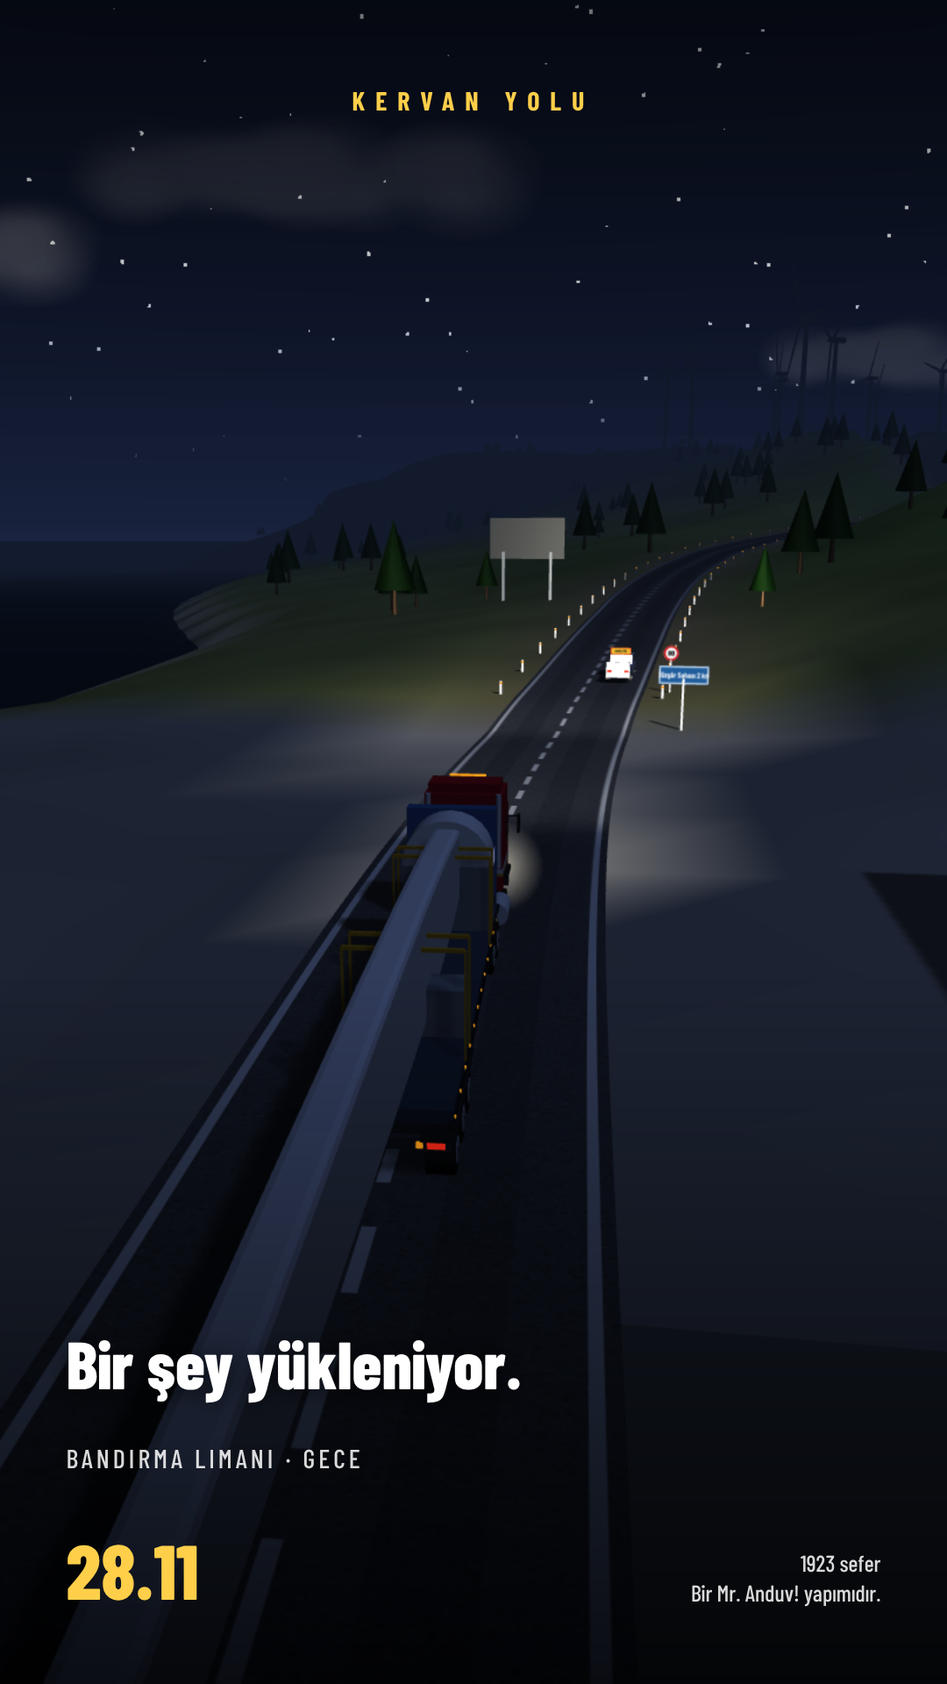
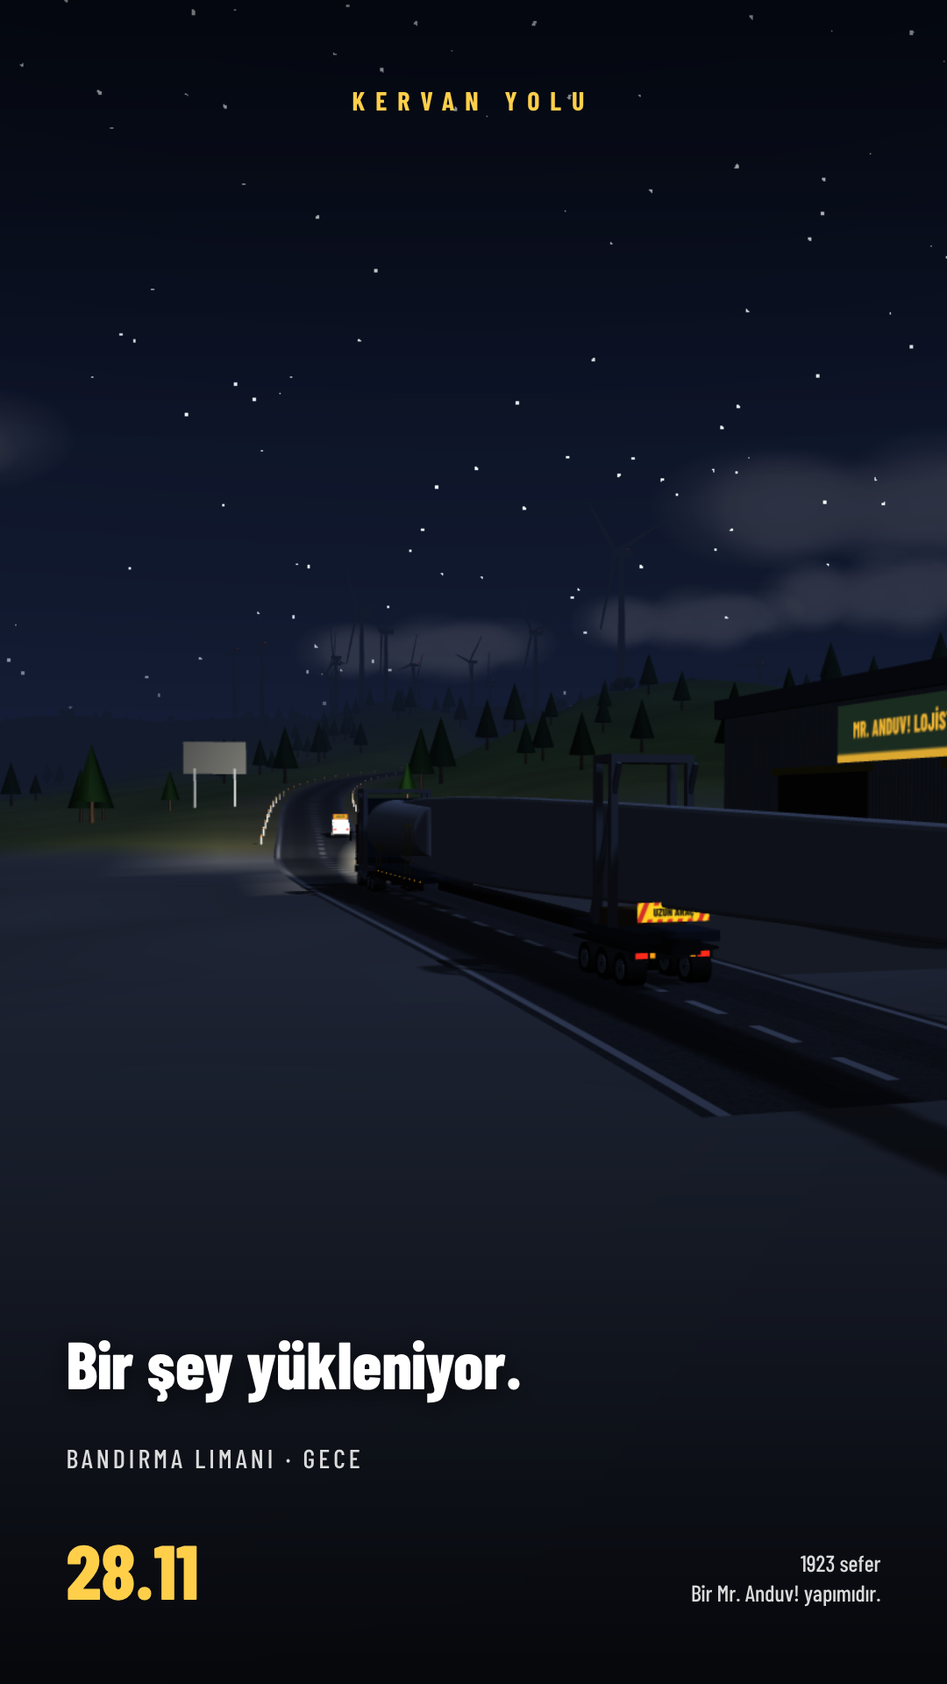
Gerçekçi kanat taşıması: 72 m kanat, teleskopik uzayan dorse (uç çerçevesi, ~16 m çıkıntı), kendi dönen arka boji, yuvarlak kök ve büyük kök çerçevesi, uçta kırmızı-beyaz uyarı şeritleri, UZUN ARAÇ levhası; kaldırıcıda dorse içeri kayar, kaldırma açısı 57°. iOS 1.0.0 (14)
Claude-Session: https://claude.ai/code/session_016DWJF61UHkq9kfKhUbEukP

Changed region(s): [[0.1528, 0.1875, 1.0, 0.8125], [0.0, 0.3438, 0.2139, 0.5], [0.0, 0.125, 0.0917, 0.1875]]

diff --git a/www/index.html b/www/index.html
@@ -309,7 +309,7 @@ const MAT={dark:P('#1c1e20'),dark2:P('#33373a',{shininess:50}),chrome:P('#d9dde0
 tyre:P('#151515',{shininess:5}),rim:P('#b8bec2',{shininess:90}),grille:P('#22272b',{shininess:80}),white:P('#f2f2ee',{shininess:60}),
 head:new THREE.MeshBasicMaterial({color:0xfff3d0}),tail:new THREE.MeshBasicMaterial({color:0xff2a1a}),amber:new THREE.MeshBasicMaterial({color:0xffa31a}),
 trailer:P('#2b3d52',{shininess:40}),yellow:P('#f0b21b',{shininess:60}),yellowD:P('#c88a10',{shininess:40}),wood:P('#8a6236'),concrete:P('#a8a59d'),
-turb:P('#f4f5f3',{shininess:70}),steel:P('#7d8790',{shininess:60}),strap:P('#e0a21a'),flange:P('#2f5f9c',{shininess:60})};
+turb:P('#f4f5f3',{shininess:70}),frame:P('#9aa3a9',{shininess:50}),blade:P('#ffffff',{shininess:70}),steel:P('#7d8790',{shininess:60}),strap:P('#e0a21a'),flange:P('#2f5f9c',{shininess:60})};
 
 // ================= DÜNYA =================
 const TX0=-420,TX1=820,TZ0=-1640,TZ1=220,SEG=10,NX=(TX1-TX0)/SEG,NZ=(TZ1-TZ0)/SEG;
@@ -465,7 +465,7 @@ function trafficStep(dt){if(!G||!TRAF.length)return;const v=truck.v;const ti=roa
   c.g.position.set(x,getH(x,z)+.05,z);c.g.rotation.set(0,h,0);for(const w of c.W)w.g.rotation.x-=c.cur/0.4*dt;
   // çarpışma: çekici ya da dorse/yük
   const hitCab=Math.hypot(x-(v.x-Math.sin(v.h)*3.5),z-(v.z-Math.cos(v.h)*3.5))<(c.len/2+1.6)&&inLane;
-  let hitTr=false;if(!hitCab){const kan=G.job.type==='kanat'&&CARGO.kanat.visible;const M=kan?(CARGO.kanat.updateMatrixWorld(true),CARGO.kanat.matrixWorld):(trailer.g.updateMatrixWorld(),trailer.g.matrixWorld);const zs=kan?[6,12,20,30,40]:[3,7,11];const ch=c.type==='otobus'?3.6:c.type==='traktor'?2.9:2.3;for(const zz of zs){_v.set(0,kan?-1:0,zz).applyMatrix4(M);if(_v.y>getH(_v.x,_v.z)+ch+.4)continue;if(Math.hypot(x-_v.x,z-_v.z)<c.wid/2+1.3){hitTr=true;break}}}
+  let hitTr=false;if(!hitCab){const kan=G.job.type==='kanat'&&CARGO.kanat.visible;const M=kan?(CARGO.kanat.updateMatrixWorld(true),CARGO.kanat.matrixWorld):(trailer.g.updateMatrixWorld(),trailer.g.matrixWorld);const zs=kan?[6,14,24,34,44,54,62,70]:[3,7,11];const ch=c.type==='otobus'?3.6:c.type==='traktor'?2.9:2.3;for(const zz of zs){_v.set(0,kan?-1:0,zz).applyMatrix4(M);if(_v.y>getH(_v.x,_v.z)+ch+.4)continue;if(Math.hypot(x-_v.x,z-_v.z)<c.wid/2+1.3){hitTr=true;break}}}
   if(hitCab||hitTr){c.crashT=2.5;c.cur=0;const imp=Math.abs(v.speed)+c.spd*.5;v.speed*=-.15;if(mode==='career'){G.dmg=Math.min(100,G.dmg+6+imp*.6);G.fines=(G.fines||0)+(hitCab?4000:0);G.tickets=(G.tickets||0)+(hitCab?1:0)}toast(T(hitCab?'t_crashCar':'t_sweep'),'#ff8a7f',2.6);G.warnT=3;blip(120,60,.4)}}
  if(ESC){const on=HEAVY.includes(G.job.type);ESC.g.visible=on;if(on){const raw=ti+sgn*26,ei=clamp(raw,46,NS-46);const park=raw!==ei;const p=sideAt(Math.round(ei),(park?5.2:LANE)*sgn);const i1=Math.round(ei),i2=clamp(i1+sgn,0,NS-1);
    const tx=RS[i2].x-RS[i1].x,tz=RS[i2].z-RS[i1].z;ESC.g.position.set(p.x,getH(p.x,p.z)+.05,p.z);ESC.g.rotation.set(0,Math.atan2(-tx,-tz),0);for(const w of ESC.W)w.g.rotation.x-=(park?0:v.speed)/.38*dt;const bl=Math.sin(G.t*9)>0;ESC.beac[0].visible=bl;ESC.beac[1].visible=!bl}}
@@ -624,7 +624,8 @@ function buildSite(){
   const m=new THREE.Mesh(new THREE.PlaneGeometry(6,3),new THREE.MeshBasicMaterial({map:tx,side:THREE.DoubleSide}));m.position.y=4.6;g.add(m);put(g,40,-13,0);{const tp=RS[NS-48];g.rotation.y=Math.atan2(tp.x-(SX+g.position.x),tp.z-(SZ+g.position.z))}OC(40,-13,3);world.siteSign={c,tx}}
  const fg=new THREE.Group();addBox(.1,3,.1,MAT.steel,0,1.5,0,fg);const flag=new THREE.Mesh(new THREE.PlaneGeometry(1.6,1.07),new THREE.MeshBasicMaterial({map:ctex(120,80,(g)=>{g.fillStyle='#e30a17';g.fillRect(0,0,120,80);g.fillStyle='#fff';g.beginPath();g.arc(42,40,20,0,7);g.fill();g.fillStyle='#e30a17';g.beginPath();g.arc(47,40,16,0,7);g.fill();g.fillStyle='#fff';g.save();g.translate(70,40);g.rotate(-.3);g.beginPath();for(let i=0;i<5;i++){const a=i*4*Math.PI/5;g.lineTo(Math.cos(a)*9,Math.sin(a)*9)}g.fill();g.restore()}),side:THREE.DoubleSide}));flag.position.set(.8,2.5,0);fg.add(flag);put(fg,26,18);world.flag=flag;
 }
-function bladeGeom(){const sh=new THREE.Shape();sh.moveTo(-.9,0);sh.bezierCurveTo(-1.6,6,-1.4,10,-1,18);sh.lineTo(-.25,40);sh.lineTo(.2,40);sh.bezierCurveTo(.6,24,1.5,8,.9,0);sh.lineTo(-.9,0);
+const BLADE_L=72;
+function bladeGeom(L=40){const k=L/40,c=L>50?1.45:1;const sh=new THREE.Shape();sh.moveTo(-.9*c,0);sh.bezierCurveTo(-1.6*c,6*k,-1.4*c,10*k,-1*c,18*k);sh.lineTo(-.25,L);sh.lineTo(.2,L);sh.bezierCurveTo(.6*c,24*k,1.5*c,8*k,.9*c,0);sh.lineTo(-.9*c,0);
  const g=new THREE.ExtrudeGeometry(sh,{depth:.45,bevelEnabled:true,bevelThickness:.15,bevelSize:.12,bevelSegments:2,curveSegments:8});g.translate(0,1.8,-.22);return g}
 function makeTurbine(){const g=new THREE.Group();addCyl(1.35,2.4,80,20,MAT.turb,0,40,0,g);addCyl(2.6,2.6,.6,20,MAT.concrete,0,.3,0,g);
  addBox(3.4,3.6,10,MAT.turb,0,82,1.6,g);addBox(3.42,.35,10.02,P('#3e7f4f'),0,80.6,1.6,g);
@@ -691,10 +692,21 @@ function buildTrailer(){const g=new THREE.Group();g.rotation.order='YXZ';const W
  addBox(2.55,.3,13.2,MAT.trailer,0,1.48,5.7,g);for(const s of[1,-1])addBox(.12,.42,13.2,MAT.dark,s*1.22,1.2,5.7,g);
  addBox(2.5,1.4,.14,MAT.trailer,0,2.3,-.85,g);for(let x=-1;x<=1;x++)addBox(.08,1.4,.16,MAT.dark,x*.8,2.3,-.85,g);
  for(const s of[1,-1]){addBox(.14,1.0,.14,MAT.dark2,s*.9,.72,2.2,g);addBox(.4,.08,.4,MAT.dark2,s*.9,.22,2.2,g)}
- for(const z of[9.2,10.5,11.8])for(const s of[1,-1])wheel(.5,.6,s*1.0,.5,z,g,W);for(const s of[1,-1])addBox(.7,.08,4.2,MAT.dark,s*1.0,1.12,10.5,g);
- addBox(2.5,.25,.16,MAT.dark2,0,.95,12.36,g);for(const s of[1,-1]){addBox(.36,.16,.06,MAT.tail,s*.95,.95,12.45,g);addBox(.14,.14,.06,MAT.amber,s*.62,.95,12.45,g)}
+ const rear=new THREE.Group();g.add(rear);const bog=new THREE.Group();rear.add(bog);bog.position.z=10.5;
+ for(const z of[-1.3,0,1.3])for(const s of[1,-1])wheel(.5,.6,s*1.0,.5,z,bog,W);for(const s of[1,-1])addBox(.7,.08,4.2,MAT.dark,s*1.0,1.12,0,bog);
+ addBox(2.5,.25,.16,MAT.dark2,0,.95,1.86,bog);for(const s of[1,-1]){addBox(.36,.16,.06,MAT.tail,s*.95,.95,1.95,bog);addBox(.14,.14,.06,MAT.amber,s*.62,.95,1.95,bog)}
+ addBox(2.55,.3,4.6,MAT.trailer,0,1.48,0,bog);
+ const tipF=new THREE.Group();bog.add(tipF);for(const s of[1,-1])for(const z of[-.55,.55])addBox(.22,4.9,.22,MAT.frame,s*1.2,4.05,z,tipF);addBox(2.62,.24,1.32,MAT.frame,0,6.45,0,tipF);addBox(2.4,.5,1.2,MAT.wood,0,1.85,0,tipF);for(const s of[1,-1]){const d=addBox(.14,4.9,.14,MAT.frame,s*1.2,4.05,0,tipF);d.rotation.x=.4}tipF.visible=false;
+ const uz=new THREE.Mesh(new THREE.PlaneGeometry(2.2,.55),new THREE.MeshBasicMaterial({map:ctex(256,64,(g,w,h)=>{g.fillStyle='#ffd21f';g.fillRect(0,0,w,h);g.fillStyle='#d32f2a';for(let x=-40;x<w;x+=36){g.beginPath();g.moveTo(x,h);g.lineTo(x+18,h);g.lineTo(x+46,0);g.lineTo(x+28,0);g.fill()}g.fillStyle='#ffd21f';g.fillRect(36,10,w-72,h-20);g.fillStyle='#111';g.font='800 36px "Barlow Condensed",sans-serif';g.textAlign='center';g.fillText('UZUN ARAÇ',w/2,45)})}));uz.position.set(0,2.15,2.0);bog.add(uz);
+ const spine=addBox(.9,.42,1,MAT.dark,0,1.25,0,rear);spine.visible=false;
  for(let z=0;z<13;z+=1.1)for(const s of[1,-1])addBox(.06,.06,.06,MAT.amber,s*1.28,1.4,z,g);
- const cargo=new THREE.Group();g.add(cargo);const slots=[2.4,6.0,9.6].map(z=>new THREE.Vector3(0,1.63,z));scene.add(g);return{g,W,slots,L:10.5,cargo}}
+ const cargo=new THREE.Group();g.add(cargo);const slots=[2.4,6.0,9.6].map(z=>new THREE.Vector3(0,1.63,z));scene.add(g);return{g,W,slots,L:10.5,cargo,bog,tipF,spine,ext:0,steer:0}}
+// Kanat dorsesi: teleskopik uzar (uç çerçevesi kanadın ~3/4'ünde, arkada ~16 m çıkıntı), arka boji uzaktan kumandayla/kendiliğinden döner.
+// Kanat kaldırıcıyla kanat havaya kalkınca dorse içeri kayar (kısa dingil mesafesi, dar virajlar).
+const TR_EXT=46;
+function trailerExt(dt){const kan=G&&G.job&&G.job.type==='kanat'&&CARGO.kanat&&CARGO.kanat.visible;const want=kan?TR_EXT*(1-(G.bl||0)):0;trailer.ext+=clamp(want-trailer.ext,-dt*8,dt*8);const e=trailer.ext;
+ trailer.bog.position.z=10.5+e;trailer.L=10.5+e*.17;trailer.tipF.visible=kan&&(G.bl||0)<.05;trailer.spine.visible=e>.3;if(e>.3){trailer.spine.scale.z=e+1;trailer.spine.position.z=12.8+e/2}
+ const st=kan?clamp(angDiff(truck.v.h,trailer.th)*1.6,-.9,.9):0;trailer.steer+=(st-trailer.steer)*Math.min(1,dt*3);trailer.bog.rotation.y=-trailer.steer*.35}
 function buildForklift(){const g=new THREE.Group();g.rotation.order='YXZ';const W=[],F=[];
  addBox(1.26,.85,2.1,MAT.yellow,0,.82,.75,g);addBox(1.34,1.05,.62,MAT.yellowD,0,1.0,1.9,g);addBox(.52,.45,.52,MAT.dark,0,1.48,1.0,g);addBox(.52,.55,.1,MAT.dark,0,1.85,1.27,g);
  for(const x of[-.56,.56])for(const z of[.15,1.45])addBox(.07,1.55,.07,MAT.dark,x,2.0,z,g);addBox(1.22,.06,1.42,MAT.dark,0,2.78,.8,g);addBox(.3,.3,.06,MAT.head,.45,2.6,.08,g);addBox(.3,.3,.06,MAT.head,-.45,2.6,.08,g);addCyl(.08,.08,.5,6,MAT.amber,0,3.05,1.2,g);
@@ -769,7 +781,8 @@ const FORKP={acc:2.8,vmax:6,vrev:3,brake:6,steer:.75,steerFall:.03,slopeK:.5,rol
 let truck,trailer,fork,drone,crates=[],arrow,ring,ringBeam,pickRing,pickBeam,CARGO={};
 let OEMC=null,OEMT=null,CUR_OEM='';
 function drawOem(o){CUR_OEM=o;if(!OEMC)return;const g=OEMC.getContext('2d');g.fillStyle=OEM_COL[o]||'#1d3e7a';g.fillRect(0,0,512,128);g.fillStyle='#fff';g.fillRect(0,100,512,6);g.font='800 70px "Barlow Condensed",sans-serif';g.textAlign='center';g.fillText(o,256,84);OEMT.needsUpdate=true}
-function setupVehicles(){setupTraffic();truck=buildTruck();truck.chains=[];for(const w of truck.W){const c=new THREE.Group();for(let k=0;k<10;k++){const l=new THREE.Mesh(new THREE.BoxGeometry(.66,.05,.09),MAT.chrome);const a=k/10*Math.PI*2;l.position.set(0,Math.cos(a)*.575,Math.sin(a)*.575);l.rotation.x=a;c.add(l)}c.visible=false;w.g.add(c);truck.chains.push(c)}trailer=buildTrailer();fork=buildForklift();drone=buildDrone();crates=[0,1,2].map(()=>buildCrate());
+function bladeTex(){const t=ctex(4,512,(g,w,h)=>{g.fillStyle='#f4f5f3';g.fillRect(0,0,w,h);g.fillStyle='#c9cdd0';g.fillRect(0,0,w,h*.035);g.fillStyle='#d32f2a';g.fillRect(0,h*.035,w,h*.06);g.fillRect(0,h*.125,w,h*.06)});t.wrapS=t.wrapT=THREE.ClampToEdgeWrapping;t.repeat.set(1,1/BLADE_L);t.offset.set(0,0);return t}
+function setupVehicles(){MAT.blade.map=bladeTex();MAT.blade.needsUpdate=true;setupTraffic();truck=buildTruck();truck.chains=[];for(const w of truck.W){const c=new THREE.Group();for(let k=0;k<10;k++){const l=new THREE.Mesh(new THREE.BoxGeometry(.66,.05,.09),MAT.chrome);const a=k/10*Math.PI*2;l.position.set(0,Math.cos(a)*.575,Math.sin(a)*.575);l.rotation.x=a;c.add(l)}c.visible=false;w.g.add(c);truck.chains.push(c)}trailer=buildTrailer();fork=buildForklift();drone=buildDrone();crates=[0,1,2].map(()=>buildCrate());
  arrow=new THREE.Sprite(new THREE.SpriteMaterial({map:TEX.arrow,transparent:true,depthTest:false,depthWrite:false}));arrow.scale.set(1.6,1.6,1);arrow.renderOrder=10;scene.add(arrow);
  world.straps=[];for(let i=0;i<3;i++){const s=new THREE.Group();for(const dz of[-.45,.45]){addBox(2.62,.05,.09,MAT.strap,0,1.42,dz,s);for(const x of[-1.31,1.31])addBox(.05,1.42,.09,MAT.strap,x,.71,dz,s)}s.visible=false;trailer.g.add(s);s.position.copy(trailer.slots[i]);world.straps.push(s)}
  ring=new THREE.Mesh(new THREE.RingGeometry(8,9.2,48),new THREE.MeshBasicMaterial({color:0x6dff8c,transparent:true,opacity:.85,side:THREE.DoubleSide}));ring.rotation.x=-Math.PI/2;scene.add(ring);
@@ -778,7 +791,8 @@ function setupVehicles(){setupTraffic();truck=buildTruck();truck.chains=[];for(c
  // yük modelleri
  const kule=new THREE.Group();const seg=addCyl(2.1,2.25,11,28,MAT.turb,0,0,0,kule);seg.rotation.x=Math.PI/2;for(const z of[-5.5,5.5]){const f=new THREE.Mesh(new THREE.TorusGeometry(2.12,.12,8,28),MAT.flange);f.position.z=z;kule.add(f)}
  for(const z of[-3.5,3.5]){addBox(2.6,.7,.9,MAT.wood,0,-1.85,z,kule)}kule.position.set(0,1.63+2.25,6);trailer.cargo.add(kule);
- const kanat=new THREE.Group();const bw=new THREE.Group();bw.rotation.z=Math.PI/2;kanat.add(bw);const bl=new THREE.Mesh(bladeGeom(),MAT.turb);bl.castShadow=true;bl.rotation.set(Math.PI/2,0,0);bw.add(bl);const root=addCyl(1.25,1.25,1.6,24,MAT.turb,0,0,1.0,kanat);root.rotation.x=Math.PI/2;addBox(2.6,2.6,.5,MAT.flange,0,0,.2,kanat);addBox(2.5,1.9,1.4,MAT.steel,0,-1.0,1.2,kanat);addBox(2.4,1.1,1.0,MAT.steel,0,-1.2,9,kanat);kanat.position.set(0,3.55,-.2);trailer.cargo.add(kanat);
+ const kanat=new THREE.Group();const bw=new THREE.Group();bw.rotation.z=Math.PI/2;kanat.add(bw);const bl=new THREE.Mesh(bladeGeom(BLADE_L),MAT.blade);bl.castShadow=true;bl.rotation.set(Math.PI/2,0,0);bw.add(bl);const root=addCyl(1.6,1.6,1.6,28,MAT.turb,0,0,1.0,kanat);root.rotation.x=Math.PI/2;const neck=addCyl(1.25,1.6,9,28,MAT.turb,0,0,6.3,kanat);neck.rotation.x=Math.PI/2;addBox(3.4,3.4,.5,MAT.flange,0,0,.2,kanat);
+ const rf=new THREE.Group();kanat.add(rf);rf.position.set(0,0,.9);for(const x of[-1.85,1.85])for(const z of[-.7,.7])addBox(.24,4.6,.24,MAT.frame,x,-.1,z,rf);for(const y of[-2.3,2.1])addBox(3.94,.24,1.64,MAT.frame,0,y,0,rf);for(const x of[-1.85,1.85]){const d=addBox(.16,4.6,.16,MAT.frame,x,-.1,0,rf);d.rotation.x=.33}kanat.position.set(0,3.75,-.2);trailer.cargo.add(kanat);
  const raf=new THREE.Group();for(const z of[2.5,8.5]){for(const x of[-1,1])addBox(.18,2.2,.18,MAT.steel,x,1.1,z,raf);addBox(2.2,.18,.18,MAT.steel,0,2.2,z,raf);addBox(2.2,.18,3,MAT.steel,0,.1,z,raf)}raf.position.set(0,1.63,0);trailer.cargo.add(raf);
  // nasel: makine dairesi gövdesi, üstte soğutucu, taşıma kızağı
  const nasel=new THREE.Group();addBox(3.9,3.9,10.4,MAT.turb,0,2.15,0,nasel);addBox(3.92,.32,10.42,P('#3e7f4f'),0,.55,0,nasel);addBox(2.4,.9,3,P('#cfd3d0',{shininess:50}),0,4.55,2.4,nasel);for(const z of[-4.2,4.2])addBox(4.1,.5,1,MAT.steel,0,.05,z,nasel);
@@ -853,7 +867,7 @@ function vehStep(v,dt,inp,load){const p=v.p;let acc=0;const af=load||1;
  else if(collides(v,nx,nz)&&!collides(v,v.x,v.z)){const imp=Math.abs(v.speed);v.speed*=-.25;if(imp>1.5){if(G.strapped&&v===truck.v&&mode==='career')G.dmg=Math.min(100,G.dmg+imp*1.6);if(G.warnT<=0){toast(T('t_crash'),'#ff8a7f');G.warnT=1.5}}}
  else{v.x=nx;v.z=nz}}
 function collides(v,nx,nz){const fx=-Math.sin(v.h),fz=-Math.cos(v.h);if(v===fork.v)return hitObs(nx+fx*1.2,nz+fz*1.2)||hitObs(nx-fx*2.1,nz-fz*2.1);
- if(hitObs(nx+fx*5.3,nz+fz*5.3)||hitObs(nx+fx*2.5,nz+fz*2.5))return true;if(mode!=='career')return false;const bx=Math.sin(trailer.th),bz=Math.cos(trailer.th);const ds=G&&G.job.type==='kanat'&&!(G.bl>.05)?[4,8,12,20,28,36]:[4,8,12];for(const d of ds)if(hitObs(nx+bx*d,nz+bz*d))return true;return false}
+ if(hitObs(nx+fx*5.3,nz+fz*5.3)||hitObs(nx+fx*2.5,nz+fz*2.5))return true;if(mode!=='career')return false;const bx=Math.sin(trailer.th),bz=Math.cos(trailer.th);const ds=G&&G.job.type==='kanat'&&!(G.bl>.05)?[4,10,18,26,34,42,50,56]:[4,8,12];for(const d of ds)if(hitObs(nx+bx*d,nz+bz*d))return true;return false}
 function orient(obj,v,fz,rz,half){const fx=-Math.sin(v.h),fzz=-Math.cos(v.h),rx=Math.cos(v.h),rzz=-Math.sin(v.h);
  const hF=getH(v.x-fx*fz,v.z-fzz*fz),hR=getH(v.x-fx*rz,v.z-fzz*rz),mc=-(fz+rz)/2,mx=v.x+fx*mc,mz=v.z+fzz*mc,hL=getH(mx-rx*half,mz-rzz*half),hRi=getH(mx+rx*half,mz+rzz*half);
  const Ln=rz-fz;v.slope=(hF-hR)/Ln;const pitch=Math.atan2(hF-hR,Ln),roll=Math.atan2(hRi-hL,half*2);const hO=hR+(hF-hR)*(0-rz)/(fz-rz);obj.position.set(v.x,hO+.2,v.z);obj.rotation.set(pitch,v.h,roll)}
@@ -862,7 +876,7 @@ function placeVehicles(dt){const v=truck.v;orient(truck.g,v,-4.1,.1,1.1);
  trailer.th+=(v.speed/trailer.L)*Math.sin(v.h-trailer.th)*dt;const dth=angDiff(trailer.th,v.h);if(Math.abs(dth)>1.25)trailer.th=v.h+Math.sign(dth)*1.25;
  const hx=v.x,hz=v.z;const bx=Math.sin(trailer.th),bz=Math.cos(trailer.th);const ax=hx+bx*trailer.L,az=hz+bz*trailer.L;
  const hH=truck.g.position.y,hA=getH(ax,az)+.2;const tp=Math.atan2(hH-hA,trailer.L);const rx=Math.cos(trailer.th),rz=-Math.sin(trailer.th);const tr=Math.atan2(getH(ax+rx,az+rz)-getH(ax-rx,az-rz),2);
- trailer.g.position.set(hx,hH,hz);trailer.g.rotation.set(tp,trailer.th,tr*.7);for(const w of trailer.W)w.g.rotation.x-=v.speed/w.r*dt;
+ trailerExt(dt);trailer.g.position.set(hx,hH,hz);trailer.g.rotation.set(tp,trailer.th,tr*.7);for(const w of trailer.W)w.g.rotation.x-=v.speed/w.r*dt;
  const f=fork.v;orient(fork.g,f,0,1.55,.6);for(const w of fork.W)w.g.rotation.x-=f.speed/w.r*dt;for(const w of fork.F){w.g.rotation.x-=f.speed/w.r*dt;w.g.rotation.y=-f.steer}}
 const _v=new THREE.Vector3();
 function forkTip(){const f=fork.v;return{x:f.x-Math.sin(f.h)*1.25,z:f.z-Math.cos(f.h)*1.25}}
@@ -871,7 +885,7 @@ function slotWorld(i){trailer.g.updateMatrixWorld();return trailer.slots[i].clon
 // ---- kamera
 const camPos=new THREE.Vector3(),camLook=new THREE.Vector3();
 function camTarget(){let v,dist,hgt,ahead,obj;const por=innerWidth<innerHeight;const kanat=G&&G.job.type==='kanat';
- if(phase==='fork'){v=fork.v;obj=fork.g;dist=9;hgt=5;ahead=2}else{v=truck.v;obj=truck.g;const kule=G&&['kule','nasel','hub','aktarma','ankraj'].includes(G.job.type);dist=(por?25:19)+(kanat?8:0)+(kule?4:0);hgt=(por?9.5:7.2)+(kanat?3:0)+(kule?3.5:0);ahead=6}
+ if(phase==='fork'){v=fork.v;obj=fork.g;dist=9;hgt=5;ahead=2}else{v=truck.v;obj=truck.g;const kule=G&&['kule','nasel','hub','aktarma','ankraj'].includes(G.job.type);dist=(por?25:19)+(kanat?16:0)+(kule?4:0);hgt=(por?9.5:7.2)+(kanat?6:0)+(kule?3.5:0);ahead=6}
  const h=v.h+camYaw;const p=new THREE.Vector3(v.x+Math.sin(h)*dist,0,v.z+Math.cos(h)*dist);p.y=Math.max(getH(p.x,p.z)+2,obj.position.y+hgt);
  for(let k=1;k<=6;k++){const q=k/6,sx=lerp(v.x,p.x,q),sz=lerp(v.z,p.z,q);p.y=Math.max(p.y,getH(sx,sz)+2.5+q*1.5)}
  const l=new THREE.Vector3(v.x-Math.sin(v.h)*ahead,obj.position.y+2.2,v.z-Math.cos(v.h)*ahead);return{p,l}}
@@ -923,10 +937,10 @@ function freeLogic(){const v=truck.v,sp=Math.abs(v.speed),f=G.fr;if(!f){if(actFn
 function doStrapFree(){const t=G.job.type;const sc=STRAP_SC[t]||[1,1];world.straps.forEach((s,i)=>{s.scale.set(sc[0],sc[1],1);s.visible=(t!=='kanat'&&t!=='donus'||i!==1)})}
 // ================= KANAT KALDIRICI (blade lifter) =================
 // Kanat kökünden 40°'ye kadar dikilir: dar köy sokağında evlerin üstünden geçer; enerji hattından önce indirilmelidir.
-const BL_ANG=.7,BL_VMAX=5;
+const BL_ANG=1.0,BL_VMAX=5;
 function bladeOn(){return CARGO.kanat&&CARGO.kanat.visible&&(mode==='free'||G.strapped)}
 function roadIdx(v){let bi=G.ri||0,bd=1e9;const a=Math.max(0,bi-40),b=Math.min(NS-1,bi+40);for(let i=a;i<=b;i++){const d=(RS[i].x-v.x)**2+(RS[i].z-v.z)**2;if(d<bd){bd=d;bi=i}}if(bd>900){for(let i=0;i<NS;i+=2){const d=(RS[i].x-v.x)**2+(RS[i].z-v.z)**2;if(d<bd){bd=d;bi=i}}}G.ri=bi;return bi}
-const BLZ=[12,18,24,30,36,42];
+const BLZ=[12,20,28,36,44,52,60,68];
 function bladeHit(dx,dz){if(!bladeOn()||!HOBS.length)return null;CARGO.kanat.updateMatrixWorld(true);for(const z of BLZ)for(const bx of[-1.3,0,1.3]){_v.set(bx,0,z).applyMatrix4(CARGO.kanat.matrixWorld);const x=_v.x+dx,zz=_v.z+dz,y=_v.y;for(const o of HOBS){if((x-o.x)**2+(zz-o.z)**2<o.r*o.r&&y>o.lo&&y<o.hi)return o.k}}return null}
 function bladeAct(){if(actFn===rescue)return;const v=truck.v,sp=Math.abs(v.speed);
  const near=VZ&&(()=>{const i=roadIdx(v);return i>VZ.v0-70&&i<VZ.wi+6})();
@@ -964,7 +978,7 @@ function driveLogic(dt){const v=truck.v;const sp=Math.abs(v.speed);G.dist+=sp*dt
  const ds=Math.hypot(v.x-G.target.x,v.z-G.target.z);if(ds<150&&!G.arr){G.arr=true;toast(T('t_arr'),'#8ff0a4',2)}
  if(ds<12){setObj(T('o_park'));if(sp<.8)setAct(T('deliver'),startDrone);else setAct(null)}else{bladeAct();if(G.arr)setObj(G.job.type==='donus'?T('o_back'):T('o_drive'))}}
 function startDrone(){setAct(null);phase='drone';G.deliverT=G.t-G.t0;showCtl(false);coach('drone');
- trailer.g.updateMatrixWorld();const kanat=G.job.type==='kanat';G.orbC=new THREE.Vector3(0,2.4,kanat?18:6).applyMatrix4(trailer.g.matrixWorld);G.orbR=kanat?24:11.5;G.orb=0;drone.g.visible=true;
+ trailer.g.updateMatrixWorld();const kanat=G.job.type==='kanat';G.orbC=new THREE.Vector3(0,2.4,kanat?34:6).applyMatrix4(trailer.g.matrixWorld);G.orbR=kanat?42:11.5;G.orb=0;drone.g.visible=true;
  const pts=[];const cm=cargoMarkers(G.job.type);if(cm){for(const p of cm)pts.push(new THREE.Vector3(...p).applyMatrix4(trailer.g.matrixWorld))}else{for(const c of crates){if(!c.visible||c.parent!==trailer.g)continue;c.updateMatrixWorld();for(const lp of[[.8,.9,0],[0,1.5,0]])pts.push(new THREE.Vector3(...lp).applyMatrix4(c.matrixWorld))}}
  for(const p of pts){const m=new THREE.Sprite(new THREE.SpriteMaterial({map:TEX.marker,transparent:true,depthTest:false,depthWrite:false}));m.scale.set(kanat?1.8:.95,kanat?1.8:.95,1);m.renderOrder=11;m.position.copy(p);m.userData={scanned:false,bad:false};scene.add(m);world.markers.push(m)}
  const nb=Math.min(world.markers.length,G.dmg<4?0:G.dmg<22?1:G.dmg<50?2:3);const idx=world.markers.map((_,i)=>i).sort(()=>Math.random()-.5);for(let i=0;i<nb;i++)world.markers[idx[i]].userData.bad=true;G.nbad=nb;

diff --git a/araclar/merak-gorselleri.py b/araclar/merak-gorselleri.py
@@ -7,10 +7,10 @@ PLACE=open(os.path.join(KOK,'araclar','merak-place.js')).read()
 TARIH='28.11'
 # (ad, bölge, yük, konum oranı, saat, kamera dönüşü, ek kurulum, büyük yazı, küçük yazı)
 SAH=[
- ('1-yukleniyor','marmara','kanat',0.03,'gece',2.6,"",'Bir şey yükleniyor.','Bandırma Limanı · gece'),
+ ('1-yukleniyor','marmara','kanat',0.03,'gece',(66,-13,.38),"",'Bir şey yükleniyor.','Bandırma Limanı · gece'),
  ('2-dar-sokak','ege','kanat',None,'aksam',0.95,"G.bl=G.blT=1;CARGO.kanat.rotation.x=-BL_ANG;placeVehicles(0);",'70 metrelik kanat. Dar bir köy sokağı.','Ege · Bergama yolu'),
- ('3-zincir','sivas','kanat',0.55,'sabah',1.4,"G.chain=1;truck.chains.forEach(c=>c.visible=true);",'Yokuş buz. Zinciri tak.','Sivas Yaylası'),
- ('4-yarin','trakya','kanat',0.2,'aksam',0.7,"G.wind=12;",'Yarın yoldayız.','Trakya · Ganos Dağı'),
+ ('3-zincir','sivas','kanat',0.55,'sabah',(66,14,.5),"G.chain=1;truck.chains.forEach(c=>c.visible=true);",'Yokuş buz. Zinciri tak.','Sivas Yaylası'),
+ ('4-yarin','trakya','kanat',0.2,'aksam',(66,-15,.42),"G.wind=12;",'Yarın yoldayız.','Trakya · Ganos Dağı'),
 ]
 async def main():
     async with async_playwright() as p:
@@ -25,7 +25,8 @@ async def main():
                 await pg.evaluate(f"()=>buildRegion('{reg}')")
                 if frac is None: frac=await pg.evaluate("()=>(VZ.v0+14)/(NS-1)")
                 await pg.evaluate(PLACE,[n,frac,False,0])
-                await pg.evaluate(f"()=>{{setTOD('{tod}');{ek}camYaw={yaw};snapCam();showHud(false);for(const id of['hPause','hSnd','hFM','bcam','limB','fmTk'])document.getElementById(id)&&(document.getElementById(id).style.display='none')}}")
+                cam=f"window._cam=null;camYaw={yaw};" if not isinstance(yaw,tuple) else f"window._cam=[{yaw[0]},{yaw[1]},{yaw[2]}];"
+                await pg.evaluate(f"()=>{{setTOD('{tod}');{ek}{cam}if(window._cam){{if(!window._ct)window._ct=camTarget;camTarget=()=>{{const v=truck.v,[D,R,H]=window._cam;const cx=v.x+Math.sin(v.h)*D,cz=v.z+Math.cos(v.h)*D;const p=new THREE.Vector3(cx+Math.cos(v.h)*R,0,cz-Math.sin(v.h)*R);p.y=Math.max(getH(p.x,p.z),truck.g.position.y)+Math.abs(R)*H;return{{p,l:new THREE.Vector3(v.x+Math.sin(v.h)*18,truck.g.position.y+3.5,v.z+Math.cos(v.h)*18)}}}}}}else if(window._ct)camTarget=window._ct;snapCam();showHud(false);for(const id of['hPause','hSnd','hFM','bcam','limB','fmTk'])document.getElementById(id)&&(document.getElementById(id).style.display='none')}}")
                 for _ in range(50): await pg.evaluate("()=>new Promise(r=>requestAnimationFrame(()=>r()))")
                 await pg.evaluate("""([b,k,t])=>{document.querySelectorAll('#coach,#toast,#act,.pad,#pedals,#steer,#hud .tb').forEach(e=>e.style.display='none');
                  let e=document.getElementById('merak');if(!e){e=document.createElement('div');e.id='merak';document.body.appendChild(e)}
